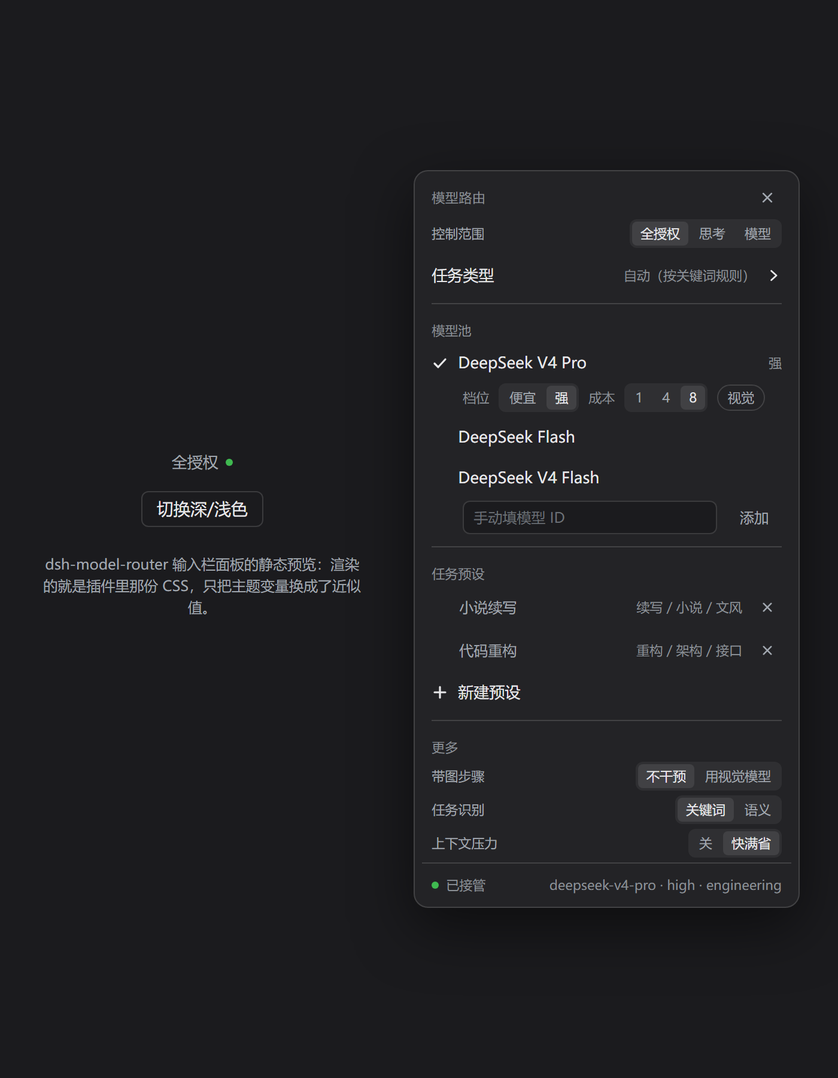
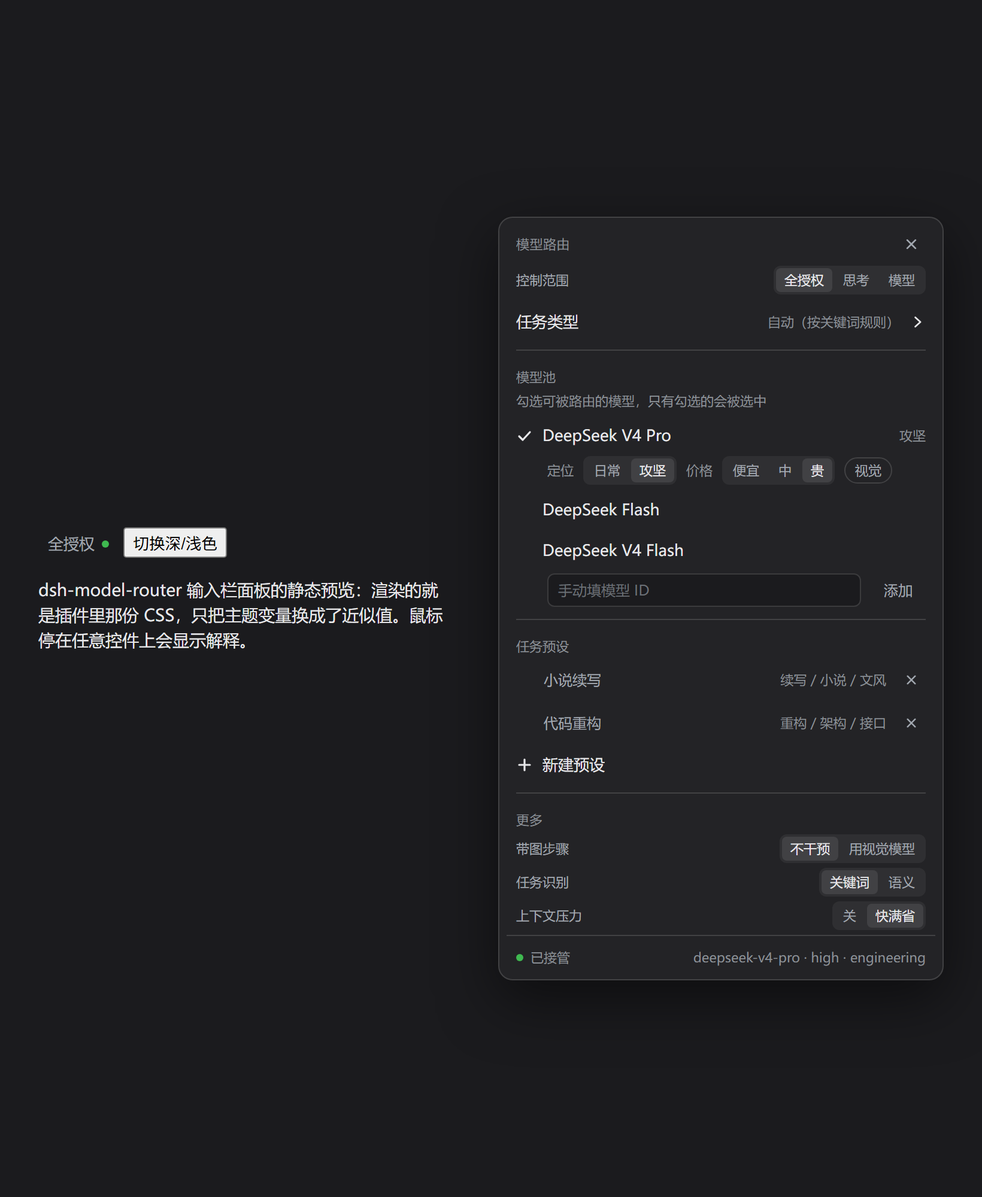
feat(ui): plain wording, hover help and a shipped preview (0.6.5)
- 档位/成本 -> 定位（日常 / 攻坚） and 价格（便宜 / 中 / 贵）: same tier/cost fields,
  only the labels changed, so existing configs keep working
- every control explains itself on hover (定位, 价格, 视觉, 控制范围, 任务类型,
  带图步骤, 任务识别, 上下文压力) plus a hint line under 模型池
- fixed the layout bug the new labels exposed: shrinkable captions/chips wrapped into
  vertical text; captions, chips and segments no longer shrink, a crowded line wraps
  whole, and the panel widened to 372px
- the preview now ships in the package: docs/ui-preview.html, docs/preview-dark.png,
  docs/preview-light.png, embedded in both READMEs
- 77 tests

diff --git a/client/client.js b/client/client.js
@@ -28,7 +28,20 @@ window.__ModuleLoader__.load({
 				title: "模型路由", scope: "控制范围", full: "全授权", effort: "思考", model: "模型",
 				engaged: "已接管", yielded: "已让位，你手动选过", resume: "重新接管",
 				task: "任务类型", auto: "自动（按关键词规则）", pool: "模型池", poolHint: "只有勾选的模型会被选中",
-				tier: "档位", cheap: "便宜", strong: "强", cost: "成本", vision: "视觉",
+				tier: "定位", cheap: "日常", strong: "攻坚", cost: "价格", vision: "视觉",
+				tierHint: "日常 = 平时就用它；攻坚 = 只在硬活/工程活时优先（hard +15 分、工程 +8 分）",
+				cheapHint: "日常：平时优先用它，省钱",
+				strongHint: "攻坚：任务变难、或工具报错等证据出现时才优先",
+				costHint: "相对价格，随你标：越贵越要任务够硬才选得中（1/4/8 分别扣 0.4 / 1.6 / 3.2 分）",
+				price1: "便宜", price4: "中", price8: "贵",
+				visionHint: "带图任务优先选它（+25 分）",
+				scopeHint: "插件能改什么：全授权 = 模型 + 思考等级；思考 = 只调思考等级；模型 = 只调模型",
+				taskHint: "自动 = 按你写的关键词规则判断；也可以强制指定一个类型",
+				poolHint2: "勾选可被路由的模型，只有勾选的会被选中",
+				imagesHint: "带图步骤：不干预 = 按普通规则；用视觉模型 = 强制走带视觉标记的模型",
+				classifierHint: "任务识别：关键词 = 按预设里的 match；语义 = 每轮一次小模型判断",
+				pressureHint: "上下文压力：快满时优先用便宜模型",
+				fullHint: "模型和思考等级都交给插件", effortHint: "只让插件调思考等级，模型不动", modelHint: "只让插件换模型，思考等级不动",
 				presets: "任务预设", newPreset: "新建预设", edit: "编辑", remove: "删除",
 				name: "名称", keywords: "关键词", add: "添加", custom: "自定义词，回车添加",
 				weights: "各模型权重", none: "不参与", save: "保存", cancel: "取消", back: "返回",
@@ -43,7 +56,20 @@ window.__ModuleLoader__.load({
 				title: "Model router", scope: "Scope", full: "Full", effort: "Effort", model: "Model",
 				engaged: "Controlling", yielded: "Yielded to your manual pick", resume: "Resume",
 				task: "Task type", auto: "Auto (keyword rules)", pool: "Model pool", poolHint: "only ticked models are selectable",
-				tier: "Tier", cheap: "cheap", strong: "strong", cost: "Cost", vision: "vision",
+				tier: "Role", cheap: "daily", strong: "heavy", cost: "Price", vision: "vision",
+				tierHint: "daily = use it all the time; heavy = prefer it for hard/engineering steps (hard +15, engineering +8)",
+				cheapHint: "daily: preferred by default, saves money",
+				strongHint: "heavy: preferred once a step turns hard or evidence of trouble appears",
+				costHint: "your own relative price: the dearer it is, the harder the step must be to pick it (1/4/8 deduct 0.4 / 1.6 / 3.2)",
+				price1: "low", price4: "mid", price8: "high",
+				visionHint: "image steps prefer this model (+25)",
+				scopeHint: "what the router may change: Full = model + effort; Effort = effort only; Model = model only",
+				taskHint: "auto = your keyword rules decide; or force one type",
+				poolHint2: "tick the models the router may use — only ticked ones are selectable",
+				imagesHint: "image steps: leave alone = normal rules; vision model = force a vision-tagged model",
+				classifierHint: "detection: keywords = the match list in your presets; semantic = one small model call per turn",
+				pressureHint: "context pressure: prefer the cheap model when the window is nearly full",
+				fullHint: "let the router change both model and effort", effortHint: "effort only, never the model", modelHint: "model only, never the effort",
 				presets: "Task presets", newPreset: "New preset", edit: "Edit", remove: "Delete",
 				name: "Name", keywords: "Keywords", add: "Add", custom: "custom word, press enter",
 				weights: "Weight per model", none: "off", save: "Save", cancel: "Cancel", back: "Back",
@@ -73,7 +99,7 @@ window.__ModuleLoader__.load({
 			".mr-trigger:hover{background:var(--dsw-alias-interactive-bg-hover,rgba(127,127,127,.14));color:var(--dsw-alias-label-primary,#e8e8ea)}",
 			".mr-dot{width:6px;height:6px;border-radius:50%;flex:none;background:var(--dsw-alias-state-success-primary,#3fb950)}",
 			".mr-dot[data-yielded=true]{background:var(--dsw-alias-state-warn-label,#d29922)}",
-			".mr-panel{position:fixed;z-index:2147483000;width:352px;max-height:min(72vh,540px);overflow:auto;padding:6px;border-radius:var(--dsw-radius-lg,12px);background:var(--dsw-specific-menu,#232326);color:var(--dsw-alias-label-primary,#e8e8ea);box-shadow:var(--dsw-elevation-prominent,0 16px 48px rgba(0,0,0,.45));border:1px solid var(--dsw-alias-border-l1,rgba(127,127,127,.22));font-size:13px;line-height:20px;scrollbar-width:thin}",
+			".mr-panel{position:fixed;z-index:2147483000;width:372px;max-height:min(72vh,540px);overflow:auto;padding:6px;border-radius:var(--dsw-radius-lg,12px);background:var(--dsw-specific-menu,#232326);color:var(--dsw-alias-label-primary,#e8e8ea);box-shadow:var(--dsw-elevation-prominent,0 16px 48px rgba(0,0,0,.45));border:1px solid var(--dsw-alias-border-l1,rgba(127,127,127,.22));font-size:13px;line-height:20px;scrollbar-width:thin}",
 			".mr-panel::-webkit-scrollbar{width:8px}",
 			".mr-panel::-webkit-scrollbar-thumb{background:var(--dsw-alias-scrollbar-bg-l2,rgba(127,127,127,.3));border-radius:4px}",
 			".mr-head{position:sticky;top:0;z-index:2;display:flex;align-items:center;gap:6px;padding:4px 8px 6px;background:var(--dsw-specific-menu,#232326);color:var(--dsw-alias-label-tertiary,#8b9096);font-size:11px;letter-spacing:.02em}",
@@ -86,8 +112,9 @@ window.__ModuleLoader__.load({
 			".mr-check{flex:0 0 14px;display:grid;place-items:center;color:var(--dsw-alias-label-primary,#e8e8ea)}",
 			".mr-name{flex:1;min-width:0;overflow:hidden;text-overflow:ellipsis;white-space:nowrap}",
 			".mr-sub{color:var(--dsw-alias-label-caption,#8b9096);font-size:11px;overflow:hidden;text-overflow:ellipsis;white-space:nowrap}",
-			".mr-line{display:flex;align-items:center;gap:8px;padding:0 0 2px;color:var(--dsw-alias-label-secondary,#a2a8b0);font-size:11px}",
-			".mr-seg{display:inline-flex;gap:2px;padding:2px;border-radius:var(--dsw-radius-sm,6px);background:var(--dsw-alias-bg-module-platform,rgba(127,127,127,.12))}",
+			".mr-line{display:flex;flex-wrap:wrap;align-items:center;gap:8px;padding:0 0 2px;color:var(--dsw-alias-label-secondary,#a2a8b0);font-size:11px}",
+			".mr-tag{flex:none;color:var(--dsw-alias-label-caption,#8b9096);font-size:11px;white-space:nowrap}",
+			".mr-seg{display:inline-flex;flex:none;gap:2px;padding:2px;border-radius:var(--dsw-radius-sm,6px);background:var(--dsw-alias-bg-module-platform,rgba(127,127,127,.12))}",
 			".mr-seg button{border:0;border-radius:4px;background:0 0;color:var(--dsw-alias-label-secondary,#a2a8b0);font:inherit;font-size:11px;line-height:16px;padding:2px 7px;white-space:nowrap;cursor:pointer;transition:background .12s,color .12s}",
 			".mr-seg button:hover:not(:disabled){color:var(--dsw-alias-label-primary,#e8e8ea)}",
 			".mr-seg button[data-active=true]{background:var(--dsw-alias-interactive-bg-hover,rgba(127,127,127,.3));color:var(--dsw-alias-label-primary,#e8e8ea)}",
@@ -102,7 +129,7 @@ window.__ModuleLoader__.load({
 			".mr-input:focus{border-color:var(--dsw-alias-state-business-primary,#3b82f6)}",
 			".mr-input::placeholder{color:var(--dsw-alias-label-dimmed,#6b7076)}",
 			".mr-wrap{display:flex;flex-wrap:wrap;gap:6px;padding:4px 8px 6px 34px}",
-			".mr-chip{display:inline-flex;align-items:center;gap:4px;height:22px;padding:0 8px;border:1px solid var(--dsw-alias-border-l1,rgba(127,127,127,.3));border-radius:999px;background:0 0;color:var(--dsw-alias-label-secondary,#a2a8b0);font:inherit;font-size:11px;cursor:pointer;transition:background .12s,color .12s}",
+			".mr-chip{display:inline-flex;flex:none;align-items:center;gap:4px;height:22px;padding:0 8px;border:1px solid var(--dsw-alias-border-l1,rgba(127,127,127,.3));border-radius:999px;background:0 0;color:var(--dsw-alias-label-secondary,#a2a8b0);font:inherit;font-size:11px;white-space:nowrap;cursor:pointer;transition:background .12s,color .12s}",
 			".mr-chip:hover{background:var(--dsw-alias-interactive-bg-hover,rgba(127,127,127,.14));color:var(--dsw-alias-label-primary,#e8e8ea)}",
 			".mr-chip[data-active=true]{background:var(--dsw-alias-interactive-bg-hover,rgba(127,127,127,.22));border-color:transparent;color:var(--dsw-alias-label-primary,#e8e8ea)}",
 			".mr-actions{display:flex;justify-content:flex-end;gap:6px;padding:8px 8px 2px}",
@@ -165,7 +192,7 @@ window.__ModuleLoader__.load({
 
 		/** Host-style segmented control: the pretty replacement for a native select. */
 		function Segmented(props) {
-			return h("div", { className: "mr-seg" },
+			return h("div", { className: "mr-seg", title: props.title || undefined },
 				props.options.map((option) => h("button", {
 					key: String(option.value), type: "button", disabled: props.disabled,
 					"data-active": String(option.value) === String(props.value),
@@ -437,18 +464,18 @@ window.__ModuleLoader__.load({
 						))
 					}
 					body.push(h("div", { key: "modes", className: "mr-line", style: { padding: "0 8px 6px" } },
-						h("span", { style: { flex: "1" } }, t.scope),
+						h("span", { style: { flex: "1" }, title: t.scopeHint }, t.scope),
 						h(Segmented, {
-							disabled: busy, value: mode, onChange: (value) => run("/control", { sessionId: sessionId, control: value }),
+							title: t.scopeHint, disabled: busy, value: mode, onChange: (value) => run("/control", { sessionId: sessionId, control: value }),
 							options: [
-								{ value: "full", label: t.full },
-								{ value: "effort", label: t.effort },
-								{ value: "model", label: t.model },
+								{ value: "full", label: t.full, title: t.fullHint },
+								{ value: "effort", label: t.effort, title: t.effortHint },
+								{ value: "model", label: t.model, title: t.modelHint },
 							],
 						})
 					))
 					body.push(h("button", {
-						key: "task", type: "button", className: "mr-row", disabled: busy, onClick: () => setView("task"),
+						key: "task", type: "button", className: "mr-row", disabled: busy, onClick: () => setView("task"), title: t.taskHint,
 					},
 						h("span", { className: "mr-name" }, t.task),
 						h("span", { className: "mr-sub" }, (state && state.pinnedTaskType) || t.auto),
@@ -457,6 +484,7 @@ window.__ModuleLoader__.load({
 					body.push(h("div", { key: "div1", className: "mr-div" }))
 
 					body.push(h("div", { key: "pool-title", className: "mr-group" }, t.pool))
+					body.push(h("div", { key: "pool-hint", className: "mr-note", style: { padding: "0 8px 2px" } }, t.poolHint2))
 					if (rows.length === 0) body.push(h("div", { key: "pool-none", className: "mr-note" }, t.empty))
 					for (const model of rows) {
 						const entry = pool.find((candidate) => candidate.id === model.id)
@@ -470,18 +498,21 @@ window.__ModuleLoader__.load({
 						))
 						if (entry) {
 							body.push(h("div", { key: model.id + "-opts", className: "mr-line", style: { padding: "0 8px 4px 34px" } },
-								h("span", { className: "mr-sub" }, t.tier),
+								h("span", { className: "mr-tag", title: t.tierHint }, t.tier),
 								h(Segmented, {
-									disabled: busy, value: entry.tier, onChange: (value) => patchEntry(model.id, { tier: value }),
-									options: [{ value: "cheap", label: t.cheap }, { value: "strong", label: t.strong }],
+									title: t.tierHint, disabled: busy, value: entry.tier, onChange: (value) => patchEntry(model.id, { tier: value }),
+									options: [
+										{ value: "cheap", label: t.cheap, title: t.cheapHint },
+										{ value: "strong", label: t.strong, title: t.strongHint },
+									],
 								}),
-								h("span", { className: "mr-sub" }, t.cost),
+								h("span", { className: "mr-tag", title: t.costHint }, t.cost),
 								h(Segmented, {
-									disabled: busy, value: entry.cost, onChange: (value) => patchEntry(model.id, { cost: Number(value) }),
-									options: COSTS.map((value) => ({ value: value, label: String(value) })),
+									title: t.costHint, disabled: busy, value: entry.cost, onChange: (value) => patchEntry(model.id, { cost: Number(value) }),
+									options: COSTS.map((value) => ({ value: value, label: t["price" + value] || String(value) })),
 								}),
 								h("button", {
-									type: "button", className: "mr-chip", disabled: busy,
+									type: "button", className: "mr-chip", disabled: busy, title: t.visionHint,
 									"data-active": String((entry.tags || []).indexOf("vision") >= 0),
 									onClick: () => patchEntry(model.id, {
 										tags: (entry.tags || []).indexOf("vision") >= 0
@@ -526,23 +557,23 @@ window.__ModuleLoader__.load({
 					body.push(h("div", { key: "div3", className: "mr-div" }))
 					body.push(h("div", { key: "more-title", className: "mr-group" }, t.more))
 					body.push(h("div", { key: "images", className: "mr-line", style: { padding: "2px 8px" } },
-						h("span", { className: "mr-name" }, t.images),
+						h("span", { className: "mr-name", title: t.imagesHint }, t.images),
 						h(Segmented, {
-							disabled: busy, value: settings.imagePolicy || "keep", onChange: (value) => setSetting({ imagePolicy: value }),
+							title: t.imagesHint, disabled: busy, value: settings.imagePolicy || "keep", onChange: (value) => setSetting({ imagePolicy: value }),
 							options: [{ value: "keep", label: t.keepImages }, { value: "vision", label: t.toVision }],
 						})
 					))
 					body.push(h("div", { key: "classifier", className: "mr-line", style: { padding: "2px 8px" } },
-						h("span", { className: "mr-name" }, t.classifier),
+						h("span", { className: "mr-name", title: t.classifierHint }, t.classifier),
 						h(Segmented, {
-							disabled: busy, value: settings.classifier || "rules", onChange: (value) => setSetting({ classifier: value }),
+							title: t.classifierHint, disabled: busy, value: settings.classifier || "rules", onChange: (value) => setSetting({ classifier: value }),
 							options: [{ value: "rules", label: t.byRules }, { value: "llm", label: t.byLlm }],
 						})
 					))
 					body.push(h("div", { key: "pressure", className: "mr-line", style: { padding: "2px 8px" } },
-						h("span", { className: "mr-name" }, t.pressure),
+						h("span", { className: "mr-name", title: t.pressureHint }, t.pressure),
 						h(Segmented, {
-							disabled: busy,
+							title: t.pressureHint, disabled: busy,
 							value: settings.signals && Number(settings.signals.contextPressure) > 0 ? "on" : "off",
 							onChange: (value) => setSetting({ signals: { contextPressure: value === "on" ? 0.75 : 0 } }),
 							options: [{ value: "off", label: t.off }, { value: "on", label: t.on }],

diff --git a/docs/ui-preview.html b/docs/ui-preview.html
@@ -28,16 +28,11 @@
 body{margin:0;min-height:100vh;display:flex;gap:40px;align-items:center;justify-content:center;
   background:var(--dsw-alias-bg-base);color:var(--dsw-alias-label-primary);
   font:14px/1.5 system-ui,"Segoe UI",-apple-system,sans-serif;padding:32px}
-.mr-panel{position:static!important;max-height:none!important}
-.wrap{display:flex;flex-direction:column;gap:10px;align-items:center}
-.caption{color:var(--dsw-alias-label-secondary);font-size:12px;text-align:center;max-width:300px}
-.toggle{height:30px;padding:0 12px;border-radius:6px;border:1px solid var(--dsw-alias-border-l1);
-  background:transparent;color:var(--dsw-alias-label-primary);font:inherit;cursor:pointer}
 .mr-trigger{display:inline-flex;align-items:center;gap:6px;height:28px;padding:0 8px;border:0;border-radius:var(--dsw-radius-sm,6px);background:0 0;color:var(--dsw-alias-label-secondary,#a2a8b0);font:inherit;font-size:13px;line-height:20px;cursor:pointer;transition:background .12s,color .12s}
 .mr-trigger:hover{background:var(--dsw-alias-interactive-bg-hover,rgba(127,127,127,.14));color:var(--dsw-alias-label-primary,#e8e8ea)}
 .mr-dot{width:6px;height:6px;border-radius:50%;flex:none;background:var(--dsw-alias-state-success-primary,#3fb950)}
 .mr-dot[data-yielded=true]{background:var(--dsw-alias-state-warn-label,#d29922)}
-.mr-panel{position:fixed;z-index:2147483000;width:352px;max-height:min(72vh,540px);overflow:auto;padding:6px;border-radius:var(--dsw-radius-lg,12px);background:var(--dsw-specific-menu,#232326);color:var(--dsw-alias-label-primary,#e8e8ea);box-shadow:var(--dsw-elevation-prominent,0 16px 48px rgba(0,0,0,.45));border:1px solid var(--dsw-alias-border-l1,rgba(127,127,127,.22));font-size:13px;line-height:20px;scrollbar-width:thin}
+.mr-panel{position:fixed;z-index:2147483000;width:372px;max-height:min(72vh,540px);overflow:auto;padding:6px;border-radius:var(--dsw-radius-lg,12px);background:var(--dsw-specific-menu,#232326);color:var(--dsw-alias-label-primary,#e8e8ea);box-shadow:var(--dsw-elevation-prominent,0 16px 48px rgba(0,0,0,.45));border:1px solid var(--dsw-alias-border-l1,rgba(127,127,127,.22));font-size:13px;line-height:20px;scrollbar-width:thin}
 .mr-panel::-webkit-scrollbar{width:8px}
 .mr-panel::-webkit-scrollbar-thumb{background:var(--dsw-alias-scrollbar-bg-l2,rgba(127,127,127,.3));border-radius:4px}
 .mr-head{position:sticky;top:0;z-index:2;display:flex;align-items:center;gap:6px;padding:4px 8px 6px;background:var(--dsw-specific-menu,#232326);color:var(--dsw-alias-label-tertiary,#8b9096);font-size:11px;letter-spacing:.02em}
@@ -50,8 +45,9 @@ body{margin:0;min-height:100vh;display:flex;gap:40px;align-items:center;justify-
 .mr-check{flex:0 0 14px;display:grid;place-items:center;color:var(--dsw-alias-label-primary,#e8e8ea)}
 .mr-name{flex:1;min-width:0;overflow:hidden;text-overflow:ellipsis;white-space:nowrap}
 .mr-sub{color:var(--dsw-alias-label-caption,#8b9096);font-size:11px;overflow:hidden;text-overflow:ellipsis;white-space:nowrap}
-.mr-line{display:flex;align-items:center;gap:8px;padding:0 0 2px;color:var(--dsw-alias-label-secondary,#a2a8b0);font-size:11px}
-.mr-seg{display:inline-flex;gap:2px;padding:2px;border-radius:var(--dsw-radius-sm,6px);background:var(--dsw-alias-bg-module-platform,rgba(127,127,127,.12))}
+.mr-line{display:flex;flex-wrap:wrap;align-items:center;gap:8px;padding:0 0 2px;color:var(--dsw-alias-label-secondary,#a2a8b0);font-size:11px}
+.mr-tag{flex:none;color:var(--dsw-alias-label-caption,#8b9096);font-size:11px;white-space:nowrap}
+.mr-seg{display:inline-flex;flex:none;gap:2px;padding:2px;border-radius:var(--dsw-radius-sm,6px);background:var(--dsw-alias-bg-module-platform,rgba(127,127,127,.12))}
 .mr-seg button{border:0;border-radius:4px;background:0 0;color:var(--dsw-alias-label-secondary,#a2a8b0);font:inherit;font-size:11px;line-height:16px;padding:2px 7px;white-space:nowrap;cursor:pointer;transition:background .12s,color .12s}
 .mr-seg button:hover:not(:disabled){color:var(--dsw-alias-label-primary,#e8e8ea)}
 .mr-seg button[data-active=true]{background:var(--dsw-alias-interactive-bg-hover,rgba(127,127,127,.3));color:var(--dsw-alias-label-primary,#e8e8ea)}
@@ -66,7 +62,7 @@ body{margin:0;min-height:100vh;display:flex;gap:40px;align-items:center;justify-
 .mr-input:focus{border-color:var(--dsw-alias-state-business-primary,#3b82f6)}
 .mr-input::placeholder{color:var(--dsw-alias-label-dimmed,#6b7076)}
 .mr-wrap{display:flex;flex-wrap:wrap;gap:6px;padding:4px 8px 6px 34px}
-.mr-chip{display:inline-flex;align-items:center;gap:4px;height:22px;padding:0 8px;border:1px solid var(--dsw-alias-border-l1,rgba(127,127,127,.3));border-radius:999px;background:0 0;color:var(--dsw-alias-label-secondary,#a2a8b0);font:inherit;font-size:11px;cursor:pointer;transition:background .12s,color .12s}
+.mr-chip{display:inline-flex;flex:none;align-items:center;gap:4px;height:22px;padding:0 8px;border:1px solid var(--dsw-alias-border-l1,rgba(127,127,127,.3));border-radius:999px;background:0 0;color:var(--dsw-alias-label-secondary,#a2a8b0);font:inherit;font-size:11px;white-space:nowrap;cursor:pointer;transition:background .12s,color .12s}
 .mr-chip:hover{background:var(--dsw-alias-interactive-bg-hover,rgba(127,127,127,.14));color:var(--dsw-alias-label-primary,#e8e8ea)}
 .mr-chip[data-active=true]{background:var(--dsw-alias-interactive-bg-hover,rgba(127,127,127,.22));border-color:transparent;color:var(--dsw-alias-label-primary,#e8e8ea)}
 .mr-actions{display:flex;justify-content:flex-end;gap:6px;padding:8px 8px 2px}
@@ -74,22 +70,24 @@ body{margin:0;min-height:100vh;display:flex;gap:40px;align-items:center;justify-
 .mr-err{margin:4px 8px;padding:6px 8px;border-radius:var(--dsw-radius-md,8px);background:var(--dsw-alias-interactive-bg-hover-danger,rgba(248,81,73,.14));color:var(--dsw-alias-state-error-primary,#f85149);font-size:11px;line-height:16px;word-break:break-word}
 .mr-foot{display:flex;gap:6px;align-items:center;padding:8px 8px 2px;margin-top:2px;border-top:1px solid var(--dsw-alias-border-l1,rgba(127,127,127,.18));color:var(--dsw-alias-label-caption,#8b9096);font-size:11px}
 .mr-note{padding:8px;color:var(--dsw-alias-label-caption,#8b9096);font-size:11px}
+.mr-panel{position:static!important;max-height:none!important;overflow:visible!important;flex:none!important}
 </style>
 </head>
 <body>
 <div class="wrap">
   <button class="mr-trigger" type="button">全授权 <span class="mr-dot" data-yielded="false"></span></button>
   <button class="toggle" type="button" onclick="var r=document.documentElement;r.dataset.theme=r.dataset.theme==='dark'?'light':'dark'">切换深/浅色</button>
-  <p class="caption">dsh-model-router 输入栏面板的静态预览：渲染的就是插件里那份 CSS，只把主题变量换成了近似值。</p>
+  <p class="caption">dsh-model-router 输入栏面板的静态预览：渲染的就是插件里那份 CSS，只把主题变量换成了近似值。鼠标停在任意控件上会显示解释。</p>
 </div>
 <div class="mr-panel">
   <div class="mr-head"><span class="mr-name">模型路由</span><button class="mr-btn mr-icon-btn"><svg width="12" height="12" viewBox="0 0 14 14" fill="none" stroke="currentColor" stroke-width="1.6" stroke-linecap="round" stroke-linejoin="round"><path d="M3 3l8 8M11 3l-8 8"/></svg></button></div>
-  <div class="mr-line" style="padding:0 8px 6px"><span style="flex:1">控制范围</span><div class="mr-seg"><button data-active="true">全授权</button><button>思考</button><button>模型</button></div></div>
-  <button class="mr-row"><span class="mr-name">任务类型</span><span class="mr-sub">自动（按关键词规则）</span><span class="mr-check"><svg width="12" height="12" viewBox="0 0 14 14" fill="none" stroke="currentColor" stroke-width="1.6" stroke-linecap="round" stroke-linejoin="round"><path d="M5 2.5l5 4.5-5 4.5"/></svg></span></button>
+  <div class="mr-line" style="padding:0 8px 6px"><span style="flex:1" title="插件能改什么">控制范围</span><div class="mr-seg" title="全授权 = 模型 + 思考等级；思考 = 只调思考等级；模型 = 只调模型"><button data-active="true" title="模型和思考等级都交给插件">全授权</button><button title="只让插件调思考等级，模型不动">思考</button><button title="只让插件换模型，思考等级不动">模型</button></div></div>
+  <button class="mr-row" title="自动 = 按关键词规则判断；也可以强制指定一个类型"><span class="mr-name">任务类型</span><span class="mr-sub">自动（按关键词规则）</span><span class="mr-check"><svg width="12" height="12" viewBox="0 0 14 14" fill="none" stroke="currentColor" stroke-width="1.6" stroke-linecap="round" stroke-linejoin="round"><path d="M5 2.5l5 4.5-5 4.5"/></svg></span></button>
   <div class="mr-div"></div>
   <div class="mr-group">模型池</div>
-  <button class="mr-row"><span class="mr-check"><svg width="14" height="14" viewBox="0 0 14 14" fill="none" stroke="currentColor" stroke-width="1.6" stroke-linecap="round" stroke-linejoin="round"><path d="M2.5 7.5l3 3L11.5 4"/></svg></span><span class="mr-name">DeepSeek V4 Pro</span><span class="mr-sub">强</span></button>
-  <div class="mr-line" style="padding:0 8px 4px 34px"><span class="mr-sub">档位</span><div class="mr-seg"><button>便宜</button><button data-active="true">强</button></div><span class="mr-sub">成本</span><div class="mr-seg"><button>1</button><button>4</button><button data-active="true">8</button></div><button class="mr-chip">视觉</button></div>
+  <div class="mr-note" style="padding:0 8px 2px">勾选可被路由的模型，只有勾选的会被选中</div>
+  <button class="mr-row"><span class="mr-check"><svg width="14" height="14" viewBox="0 0 14 14" fill="none" stroke="currentColor" stroke-width="1.6" stroke-linecap="round" stroke-linejoin="round"><path d="M2.5 7.5l3 3L11.5 4"/></svg></span><span class="mr-name">DeepSeek V4 Pro</span><span class="mr-sub">攻坚</span></button>
+  <div class="mr-line" style="padding:0 8px 4px 34px"><span class="mr-tag" title="日常 = 平时就用它；攻坚 = 只在硬活/工程活时优先（hard +15 分、工程 +8 分）">定位</span><div class="mr-seg" title="日常 = 平时就用它；攻坚 = 只在硬活/工程活时优先（hard +15 分、工程 +8 分）"><button title="日常：平时优先用它，省钱">日常</button><button data-active="true" title="攻坚：任务变难、或工具报错等证据出现时才优先">攻坚</button></div><span class="mr-tag" title="相对价格，随你标">价格</span><div class="mr-seg" title="相对价格，随你标：越贵越要任务够硬才选得中（1/4/8 分别扣 0.4 / 1.6 / 3.2 分）"><button title="成本 1，扣 0.4 分">便宜</button><button title="成本 4，扣 1.6 分">中</button><button data-active="true" title="成本 8，扣 3.2 分">贵</button></div><button class="mr-chip" title="带图任务优先选它（+25 分）">视觉</button></div>
   <button class="mr-row"><span class="mr-check"></span><span class="mr-name">DeepSeek Flash</span></button>
   <button class="mr-row"><span class="mr-check"></span><span class="mr-name">DeepSeek V4 Flash</span></button>
   <div class="mr-line" style="padding:2px 8px 4px 34px"><input class="mr-input" placeholder="手动填模型 ID"><button class="mr-btn">添加</button></div>
@@ -100,9 +98,9 @@ body{margin:0;min-height:100vh;display:flex;gap:40px;align-items:center;justify-
   <button class="mr-row"><span class="mr-check"><svg width="14" height="14" viewBox="0 0 14 14" fill="none" stroke="currentColor" stroke-width="1.6" stroke-linecap="round" stroke-linejoin="round"><path d="M7 2.5v9M2.5 7h9"/></svg></span><span class="mr-name">新建预设</span></button>
   <div class="mr-div"></div>
   <div class="mr-group">更多</div>
-  <div class="mr-line" style="padding:2px 8px"><span class="mr-name">带图步骤</span><div class="mr-seg"><button data-active="true">不干预</button><button>用视觉模型</button></div></div>
-  <div class="mr-line" style="padding:2px 8px"><span class="mr-name">任务识别</span><div class="mr-seg"><button data-active="true">关键词</button><button>语义</button></div></div>
-  <div class="mr-line" style="padding:2px 8px"><span class="mr-name">上下文压力</span><div class="mr-seg"><button>关</button><button data-active="true">快满省</button></div></div>
+  <div class="mr-line" style="padding:2px 8px"><span class="mr-name" title="带图步骤：不干预 = 按普通规则；用视觉模型 = 强制走带视觉标记的模型">带图步骤</span><div class="mr-seg" title="不干预 = 按普通规则；用视觉模型 = 强制走带视觉标记的模型"><button data-active="true" title="按普通规则">不干预</button><button title="强制走带视觉标记的模型">用视觉模型</button></div></div>
+  <div class="mr-line" style="padding:2px 8px"><span class="mr-name" title="关键词 = 按预设里的 match；语义 = 每轮一次小模型判断">任务识别</span><div class="mr-seg" title="关键词 = 按预设里的 match；语义 = 每轮一次小模型判断"><button data-active="true" title="按预设里的 match 匹配">关键词</button><button title="每轮一次小模型判断">语义</button></div></div>
+  <div class="mr-line" style="padding:2px 8px"><span class="mr-name" title="上下文压力：快满时优先用便宜模型">上下文压力</span><div class="mr-seg" title="快满时优先用便宜模型"><button title="不参与判断">关</button><button data-active="true" title="上下文快满时优先便宜模型">快满省</button></div></div>
   <div class="mr-foot"><span class="mr-dot" data-yielded="false"></span><span>已接管</span><span class="mr-name" style="text-align:right">deepseek-v4-pro · high · engineering</span></div>
 </div>
 <script>if (location.hash === "#light") document.documentElement.dataset.theme = "light"</script>

diff --git a/CHANGELOG.md b/CHANGELOG.md
@@ -1,5 +1,20 @@
 # Changelog
 
+## 0.6.5
+
+**Plain wording, hover explanations, and the preview ships with the package.**
+
+- 档位/成本 became **定位（日常 / 攻坚）** and **价格（便宜 / 中 / 贵）** — the same
+  \`tier\`/\`cost\` fields, only the labels changed, so existing configs keep working.
+- Every control now explains itself on hover: 定位, 价格, 视觉, 控制范围, 任务类型,
+  带图步骤, 任务识别, 上下文压力, plus a one-line hint under 模型池.
+- Fixed a layout bug the new labels exposed: shrinkable captions and chips wrapped into
+  vertical text. Captions/chips/segments no longer shrink and a crowded line wraps as a
+  whole; the panel widened to 372px.
+- The panel preview now ships with the package: \`docs/ui-preview.html\` plus
+  \`docs/preview-dark.png\` / \`docs/preview-light.png\`, embedded in the README.
+- 77 tests.
+
 ## 0.6.4
 
 **The panel now looks like part of the harness instead of a bolted-on form.**

diff --git a/PUBLISHING.md b/PUBLISHING.md
@@ -72,7 +72,7 @@ model seat.
 
 ## npm
 
-Published: **`@neptune810/dsh-model-router@0.6.4`** (2026-09-29). Earlier releases: 0.6.3, 0.6.2, 0.6.1, 0.6.0, 0.5.0, 0.4.0, 0.3.0 (2026-09-15).
+Published: **`@neptune810/dsh-model-router@0.6.5`** (2026-09-29). Earlier releases: 0.6.4, 0.6.3, 0.6.2, 0.6.1, 0.6.0, 0.5.0, 0.4.0, 0.3.0 (2026-09-15).
 Listing does not depend on it —
 the market installs from the repository — but a registry package gives storefronts a download count
 and lets people install without the `github:` spec.

diff --git a/README.md b/README.md
@@ -67,6 +67,8 @@ A type pinned in the composer always wins; with nothing pinned the keyword rules
 provider what it supports, picks the nearest level, and sends no effort field when the model
 advertises none.
 
+![The composer panel in dark mode](docs/preview-dark.png)
+
 ## The panel matches the host (v0.6.4)
 
 The composer control is styled with the harness's own tokens — the same 34px rows,

diff --git a/README.zh.md b/README.zh.md
@@ -63,6 +63,8 @@ presets:
 自己的 effort 词表：插件向 provider 查询它支持哪些档位，取最接近的，模型完全不支持思考时就不发
 effort 字段。
 
+![深色模式下的输入栏面板](docs/preview-dark.png)
+
 ## 全部点一点就能配（v0.6.2）
 
 输入栏那个控件就是完整的配置入口，不需要写 JSON/YAML：
